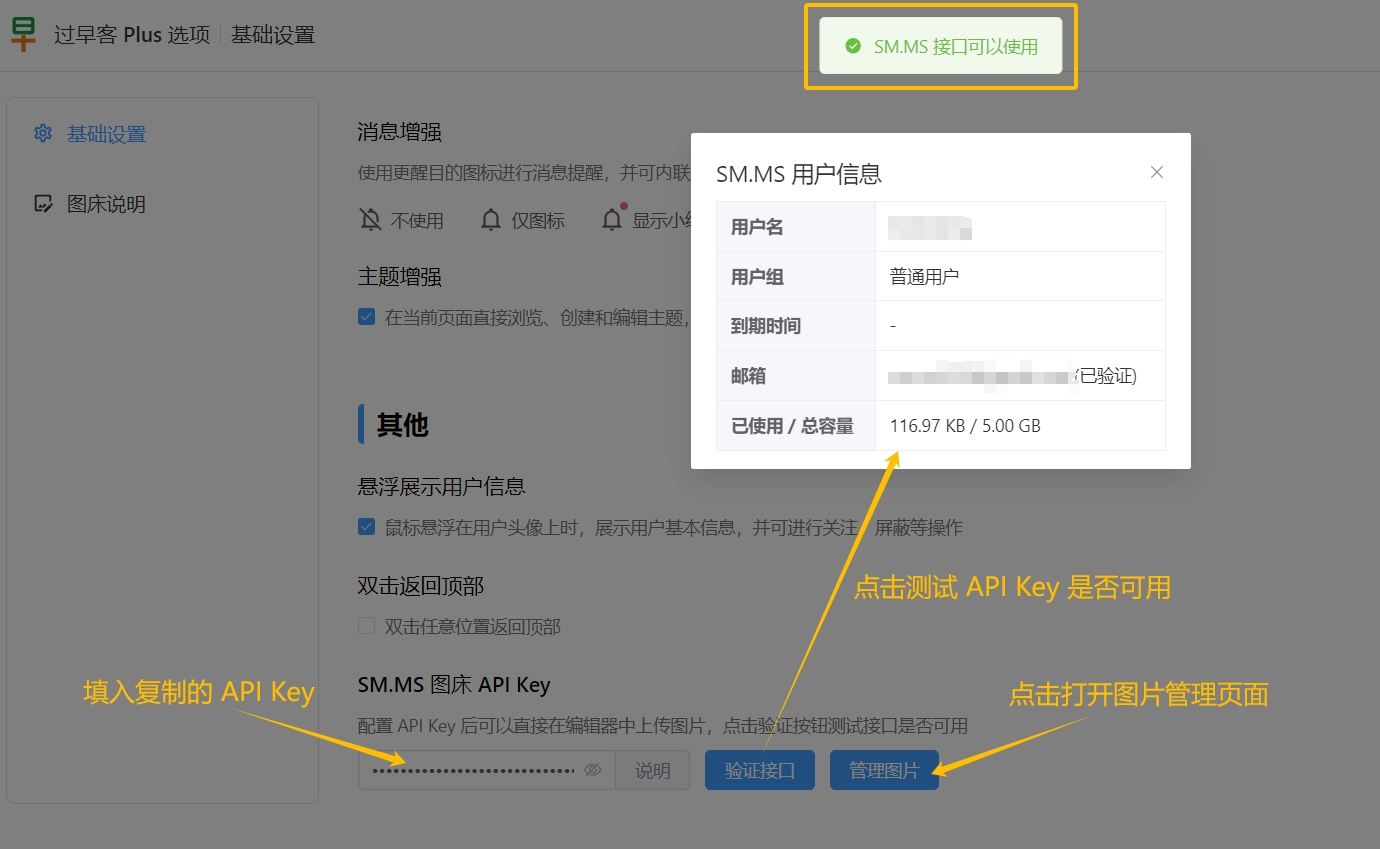
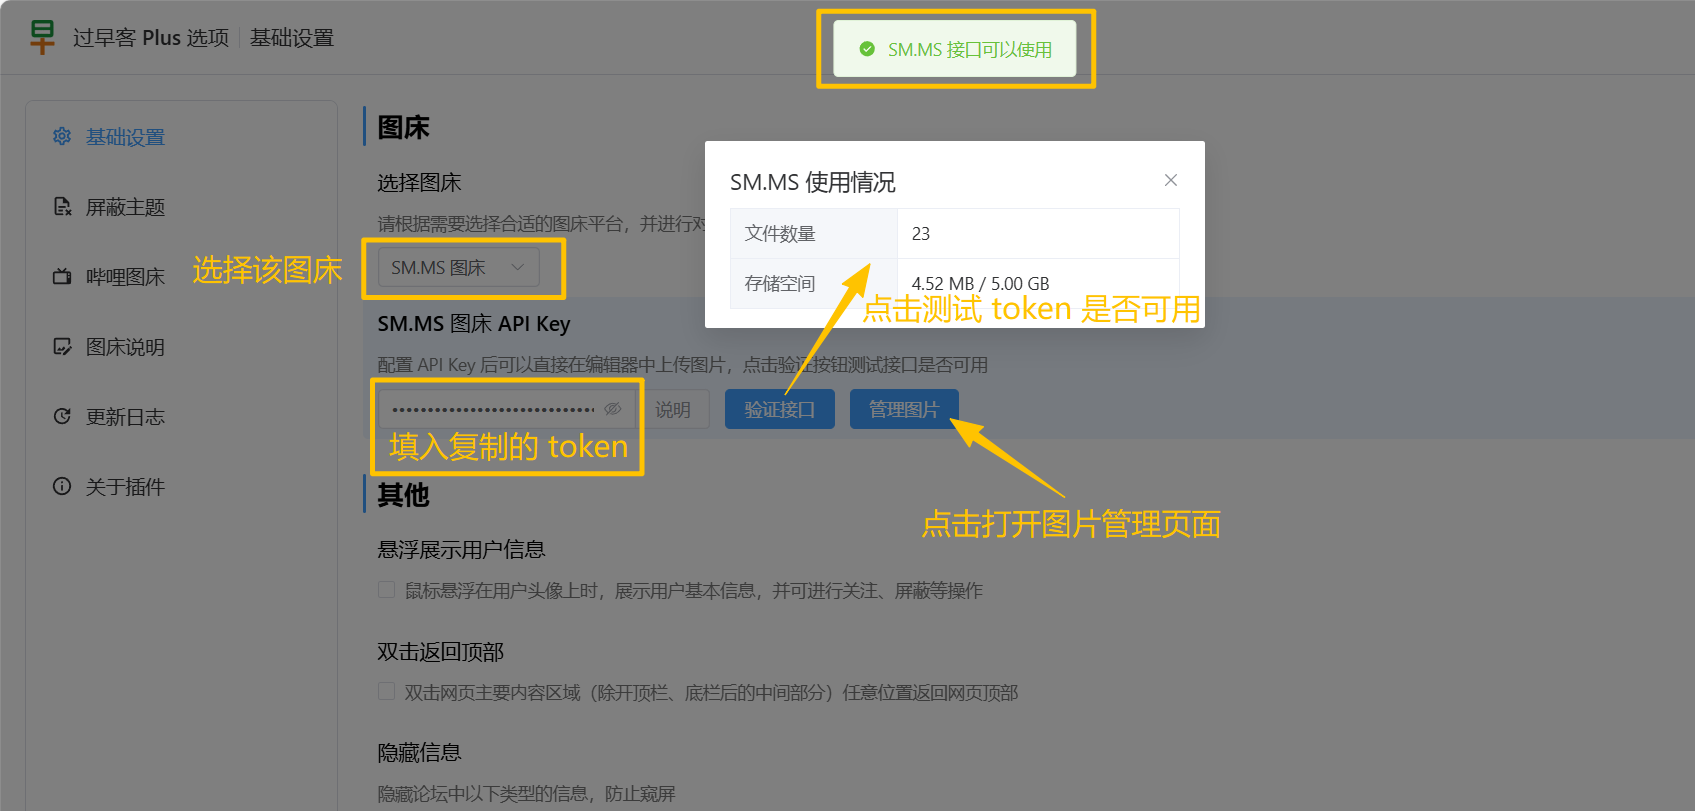
🎈 perf(views): 优化图床说明，适配 S.EE 图床

diff --git a/src/markdown/ImageHosting.md b/src/markdown/ImageHosting.md
@@ -6,30 +6,63 @@
 
 ## SM\.MS 图床配置
 
-> 默认图床为 BiliBili，需要手动在【基础设置】->【图床】中选择 **SM\.MS 图床**
+如果你曾经配置过 SM\.MS 图床，**请注意 SM\.MS 已停止活跃更新，你的 SM\.MS 账户已经迁移至 S\.EE**，以下内容摘自官方说明
+
+> S\.EE 由原 SM\.MS 开发团队开发和运营，此次迁移将为你提供更稳定、更现代、更丰富的服务体验
+>
+> **为什么迁移**
+>
+> - SM\.MS 已停止活跃更新
+> - S\.EE 在基础设施和稳定性方面表现更好
+> - S\.EE 提供更多功能，例如私密文件（密码访问）和更完善的 API
+>
+> **如何访问你的账户**
+>
+> 出于安全考虑，密码不会被迁移
+>
+> 请使用你在 SM\.MS 的邮箱前往以下页面重置密码：
+>
+> <https://s.ee/user/forgot-password>
+>
+> **关于旧图片**
+>
+> 你的旧图片链接仍可访问，但目前处于只读模式：
+>
+> - 可访问
+> - 可删除
+>
+> 完整原文地址 <https://sm.ms/migration>
 
 配置 API Key 后可以直接在编辑器中上传图片，具体步骤如下：
 
-点击链接 <https://smms.app/register> 注册图床账号，如已有账号则跳过此步骤
+点击链接 <https://s.ee/user/register> 注册图床账号，如已有账号则跳过此步骤
 
 ![smms-register](../assets/img/smms-register.png)
 
-点击链接 <https://smms.app/login> 登录图床
+点击链接 <https://s.ee/user/login> 登录图床
 
 ![smms-login](../assets/img/smms-login.png)
 
-点击链接 <https://smms.app/home/apitoken> 进入 API Token 页面。或者先点击 **Dashboard** 按钮进入仪表盘，再查看 API Token
+点击链接 <https://s.ee/user/developers> 进入 API Token 页面。或者先点击 **Dashboard** 按钮进入仪表盘 <https://s.ee/user/dashboard/>
 
 ![smms-dashboard](../assets/img/smms-dashboard.png)
 
-下图中的 Secret Token 就是图床的 API Key，**复制** 其内容。首次访问时 API Key 可能是空的，需要点击 **Generate Secret Token** 按钮生成
+首次访问时，API Token 是空的，需要点击 **Create Token** 按钮生成
 
 ![smms-token](../assets/img/smms-token.png)
 
-打开扩展选项页的基础设置页面，找到 **SM\.MS 图床 API Key** 选项
+Token 过期时间选择 **No expiration（永不过期）**
 
-- 填入先前复制的 API Key
-- 点击 **验证接口** 按钮，如果弹出下图所示的用户信息，则配置成功
+![smms-token-create](../assets/img/smms-token-create.png)
+
+下图中的 Token 就是图床的 API Key，**复制** 其内容
+
+![smms-token-copy](../assets/img/smms-token-copy.png)
+
+打开扩展选项页的【基础设置】页面，在【图床】中选择 **SM\.MS 图床**，然后找到 **SM\.MS 图床 API Key** 选项
+
+- 填入先前复制的 Token
+- 点击 **验证接口** 按钮，如果弹出下图所示的信息，则配置成功
 - 点击 **管理图片** 按钮，进入图片管理页面，可以进行图片的搜索、删除等操作
 
 ![smms-enter-key](../assets/img/smms-enter-key.png)
